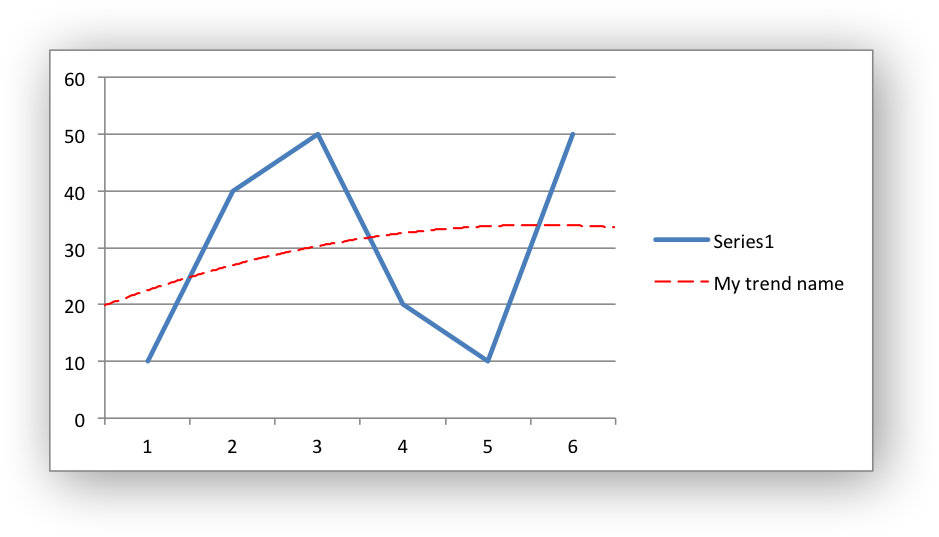
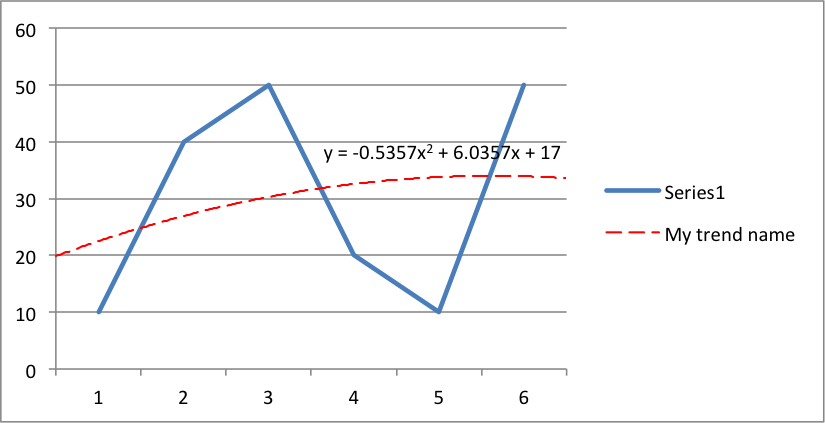
Added docs for new trendline properties.

Changed region(s): [[0.0, 0.0, 1.0, 0.9527], [0.0, 0.9835, 1.0, 1.0], [0.697, 0.4303, 0.8788, 0.4917]]

diff --git a/dev/docs/source/working_with_charts.rst b/dev/docs/source/working_with_charts.rst
@@ -164,12 +164,15 @@ as a moving average or a polynomial fit.
 The following properties can be set for trendlines in a chart series::
 
     type
-    order      (for polynomial trends)
-    period     (for moving average)
-    forward    (for all except moving average)
-    backward   (for all except moving average)
+    order               (for polynomial trends)
+    period              (for moving average)
+    forward             (for all except moving average)
+    backward            (for all except moving average)
     name
     line
+    intercept           (for exponential, linear and polynomial only)
+    display_equation    (for all except moving average)
+    display_r_squared   (for all except moving average)
 
 The ``type`` property sets the type of trendline in the series::
 
@@ -243,6 +246,38 @@ name::
         },
     })
 
+
+The ``intercept`` property sets the point where the trendline crosses the Y
+(value) axis::
+
+    chart.add_series({
+        'values': '=Sheet1!$B$1:$B$5',
+        'trendline': {'type': 'linear',
+                      'intercept': 0.8,
+        },
+    })
+
+
+The ``display_equation`` property displays the trendline equation on the
+chart::
+
+    chart.add_series({
+        'values': '=Sheet1!$B$1:$B$5',
+        'trendline': {'type': 'linear',
+                      'display_equation': True,
+        },
+    })
+
+The ``display_r_squared`` property displays the R squared value of the
+trendline on the chart::
+
+    chart.add_series({
+        'values': '=Sheet1!$B$1:$B$5',
+        'trendline': {'type': 'linear',
+                      'display_r_squared': True,
+        },
+    })
+
 Several of these properties can be set in one go::
 
     chart.add_series({
@@ -253,6 +288,7 @@ Several of these properties can be set in one go::
             'order': 2,
             'forward': 0.5,
             'backward': 0.5,
+            'display_equation': True,
             'line': {
                 'color': 'red',
                 'width': 1,
